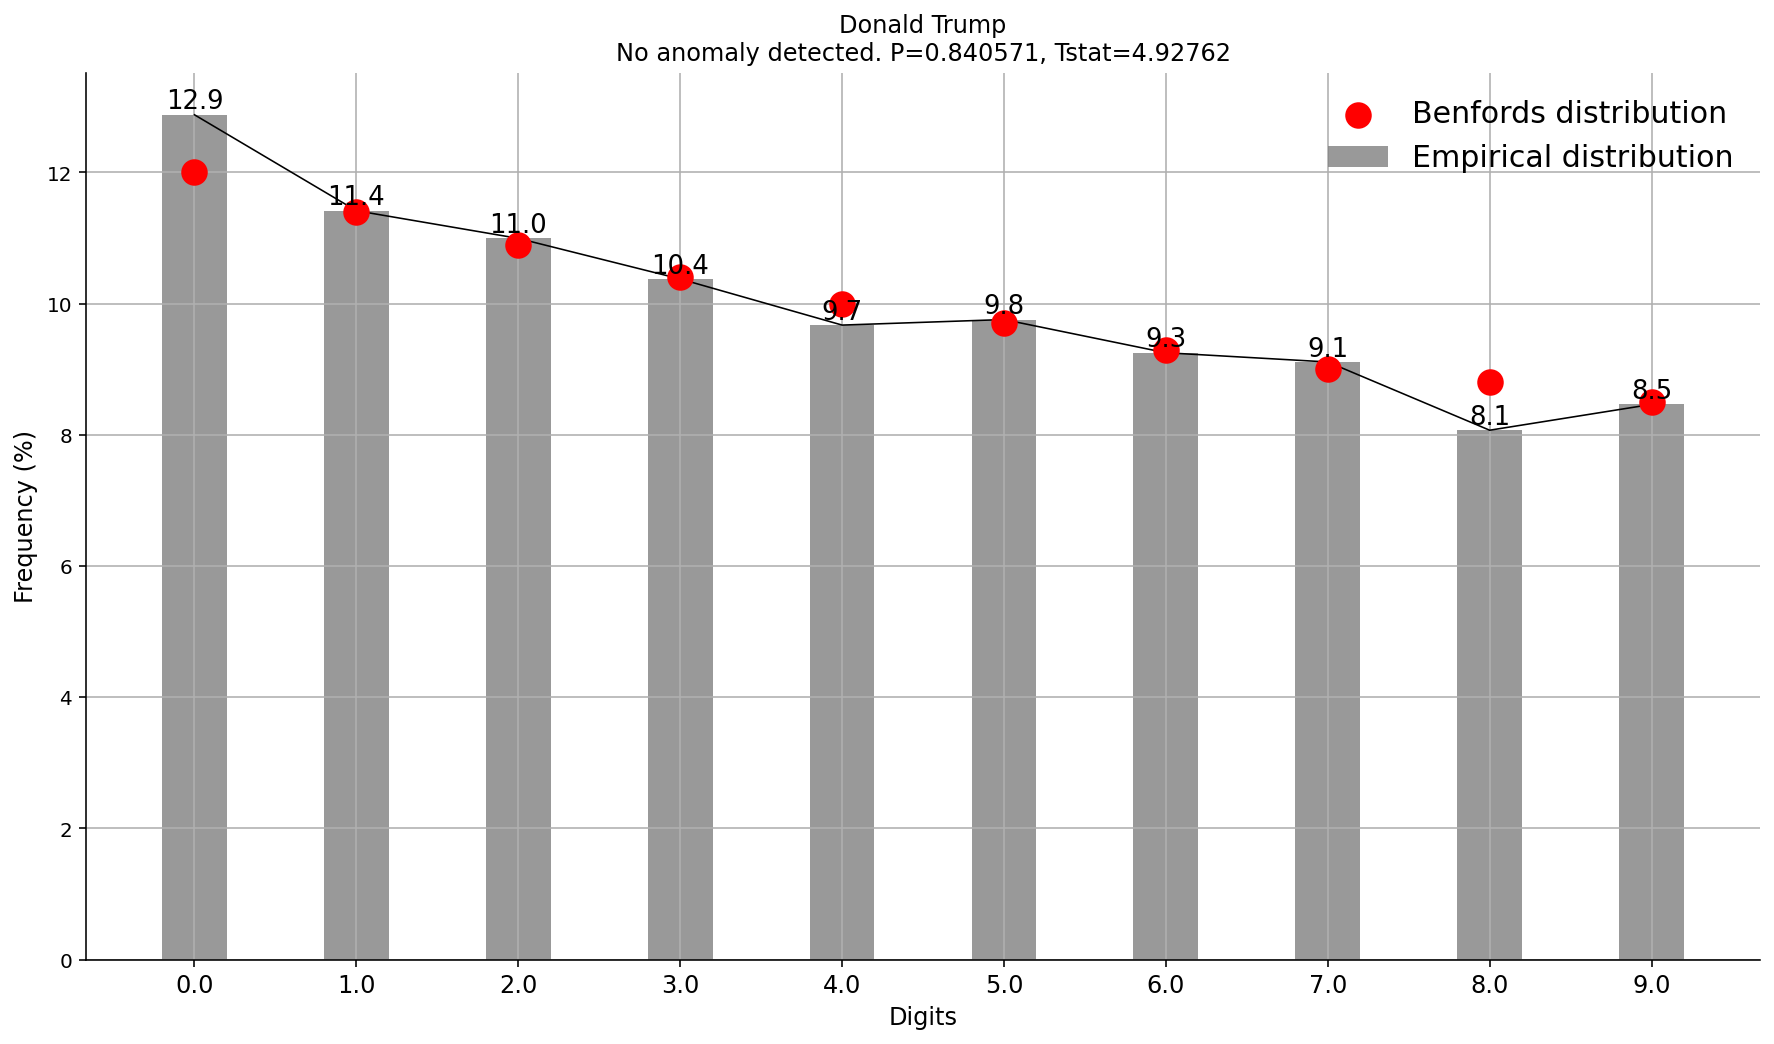
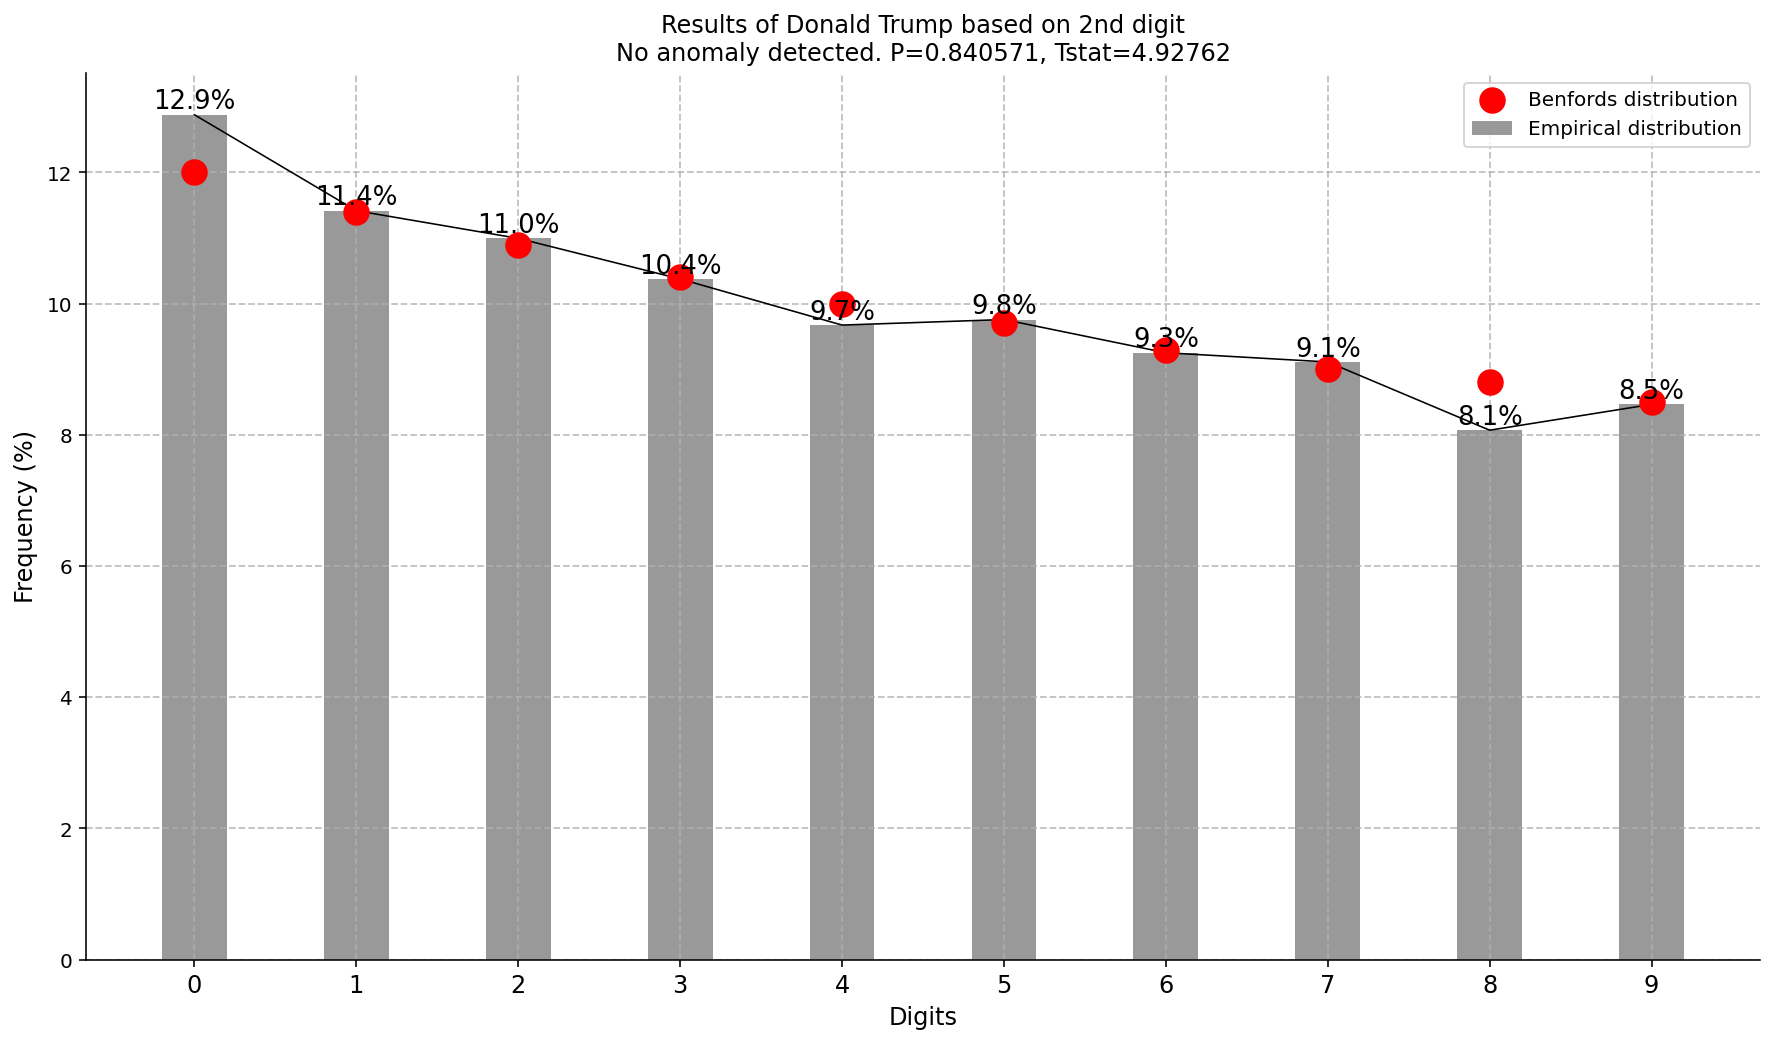
update figs

diff --git a/benfordslaw/examples.py b/benfordslaw/examples.py
@@ -2,6 +2,23 @@
 
 # import benfordslaw
 # print(benfordslaw.__version__)
+from benfordslaw import benfordslaw
+
+# Initialize
+bl = benfordslaw(pos=1)
+
+# Load elections example
+df = bl.import_example(data='elections_usa')
+
+# Extract election information.
+X = df['votes'].loc[df['candidate']=='Donald Trump'].values
+
+# Make fit
+results = bl.fit(X)
+
+# Plot
+bl.plot(title='Results of Donald Trump based on 2nd digit', barcolor=[0.5, 0.5, 0.5], fontsize=12, barwidth=0.4)
+
 
 # %% Issue #13
 # https://github.com/erdogant/benfordslaw/issues/13
